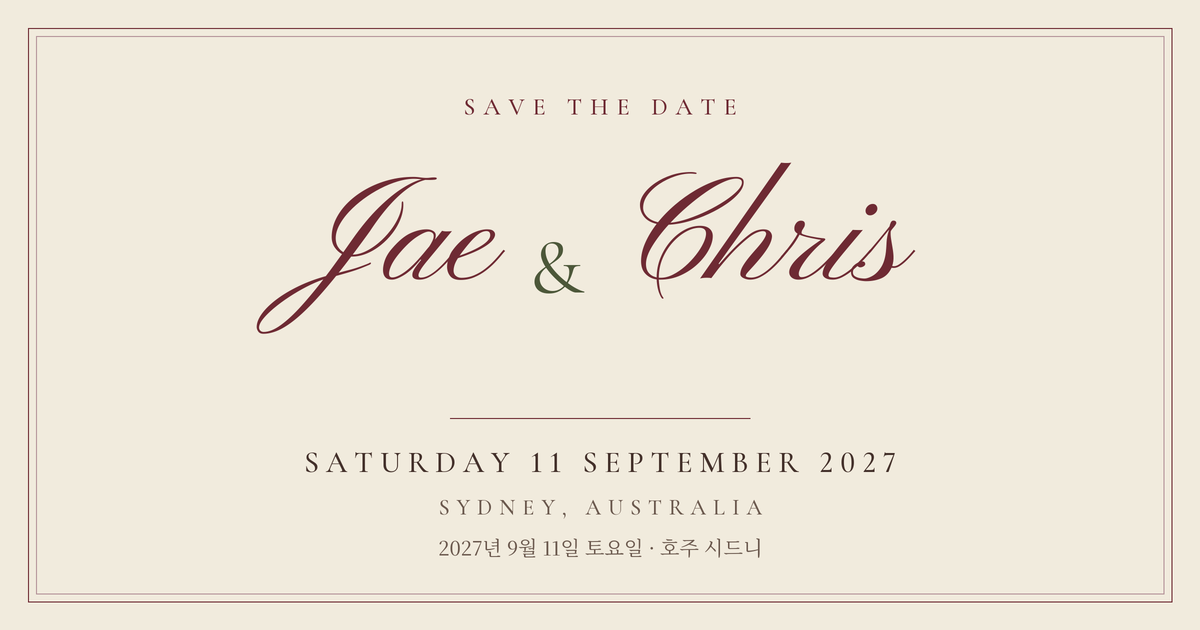
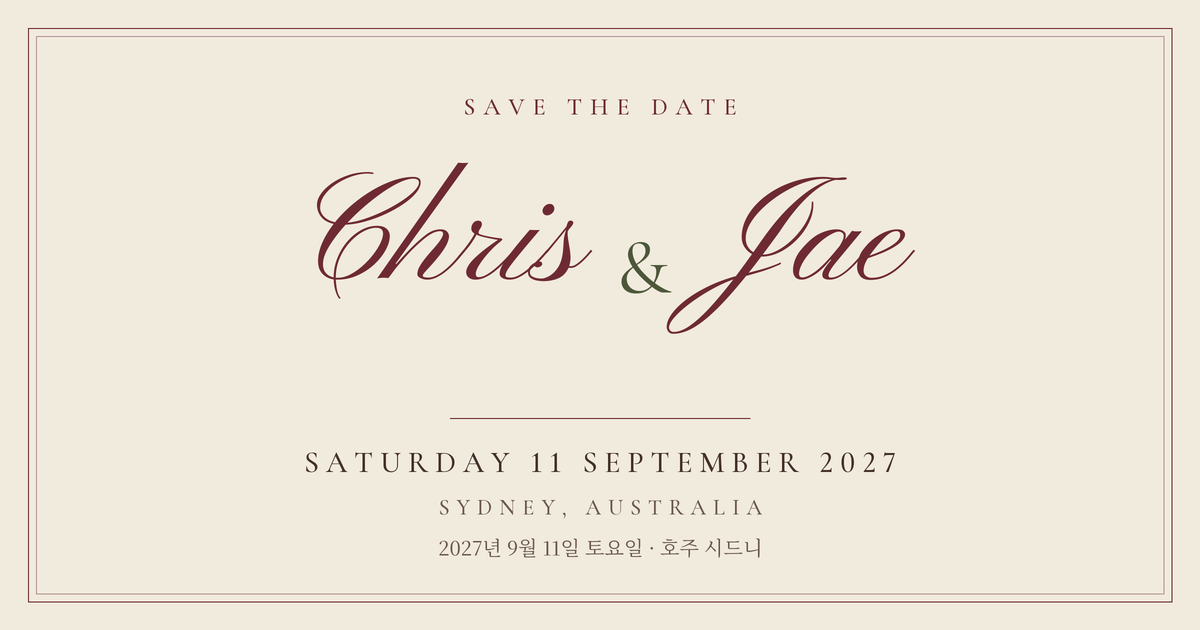
Put Chris first: Chris & Jae across page, card and calendar
- Title, heading, og title/alt, Google Calendar text
- Calendar file summary
- Link preview card re-rendered
- PRODUCT.md wording

Changed region(s): [[0.2158, 0.2413, 0.7708, 0.5429]]

diff --git a/index.html b/index.html
@@ -5,18 +5,18 @@
 <meta name="viewport" content="width=device-width,initial-scale=1,viewport-fit=cover">
 <meta name="robots" content="noindex,nofollow">
 <meta name="description" content="Save the date. Saturday 11 September 2027, Sydney.">
-<meta property="og:title" content="Jae &amp; Chris | Save the Date">
+<meta property="og:title" content="Chris &amp; Jae | Save the Date">
 <meta property="og:description" content="Saturday 11 September 2027, Sydney. Formal invitation to follow.">
 <meta property="og:type" content="website">
 <meta property="og:url" content="https://chrispychips12.github.io/jaeandchris/">
 <meta property="og:image" content="https://chrispychips12.github.io/jaeandchris/og.png">
 <meta property="og:image:width" content="1200">
 <meta property="og:image:height" content="630">
-<meta property="og:image:alt" content="Jae and Chris, save the date, 11 September 2027, Sydney">
+<meta property="og:image:alt" content="Chris and Jae, save the date, 11 September 2027, Sydney">
 <meta name="twitter:card" content="summary_large_image">
 <meta name="theme-color" content="#F1EBDD">
 <style>:root{padding-top:env(safe-area-inset-top,0px);padding-bottom:env(safe-area-inset-bottom,0px)}body{margin:0}img{max-width:100%}[hidden]{display:none!important}</style>
-<title>Jae and Chris Save the Date</title>
+<title>Chris and Jae Save the Date</title>
 <link rel="stylesheet" href="https://fonts.googleapis.com/css2?family=Pinyon+Script&family=Cormorant+Garamond:ital,wght@0,300;0,400;0,500;1,400&family=Noto+Serif+KR:wght@400&display=swap">
 <style>
 /* Layout: a four-beat scroll set like printed stationery. Names are written in on load inside a ruled frame, the date is readable on arrival and settles into place as you scroll, a day count ticks up on an olive band, then one trilingual button and a script sign-off. Palette from Jae's board: ivory, walnut, sage, olive, burgundy. Single committed look. */
@@ -158,7 +158,7 @@ p,h1,h2{margin:0;font-weight:400}
       <p class="label">Save the date</p>
       <p class="tr"><span lang="ko">이날을 비워 주시기 바랍니다</span><span lang="tl">Ireserba ang petsa</span></p>
     </div>
-    <h1 class="names" aria-label="Jae and Chris"><span>Jae</span> <span class="amp">&amp;</span> <span>Chris</span></h1>
+    <h1 class="names" aria-label="Chris and Jae"><span>Chris</span> <span class="amp">&amp;</span> <span>Jae</span></h1>
     <div class="pair mid">
       <p class="tease">are getting married</p>
       <p class="tr"><span lang="ko">결혼합니다</span><span lang="tl">ay ikakasal</span></p>
@@ -208,7 +208,7 @@ p,h1,h2{margin:0;font-weight:400}
     <div class="pair cals">
       <p class="label">Add to your calendar</p>
       <p class="tr"><span lang="ko">캘린더에 추가하기</span><span lang="tl">Idagdag sa iyong kalendaryo</span></p>
-      <p class="cal-links"><a class="cal" id="cal-ics" href="jaeandchris.ics" download>iPhone &amp; Outlook</a><a class="cal" id="cal" href="https://calendar.google.com/calendar/render?action=TEMPLATE&amp;text=Jae+%26+Chris+Wedding&amp;dates=20270911/20270912&amp;location=Sydney,+Australia" target="_blank" rel="noopener">Google</a></p>
+      <p class="cal-links"><a class="cal" id="cal-ics" href="jaeandchris.ics" download>iPhone &amp; Outlook</a><a class="cal" id="cal" href="https://calendar.google.com/calendar/render?action=TEMPLATE&amp;text=Chris+%26+Jae+Wedding&amp;dates=20270911/20270912&amp;location=Sydney,+Australia" target="_blank" rel="noopener">Google</a></p>
     </div>
     <div class="pair close">
       <p class="signoff">Invitation to follow</p>

diff --git a/PRODUCT.md b/PRODUCT.md
@@ -5,7 +5,7 @@
 brand
 
 ## Users
-Wedding guests of Jae and Chris: a mixed group of Korean, Filipino and Australian family and friends across all ages, including older relatives. Most open the link on a phone from a group chat or message. They read English, Korean or Tagalog, often only one comfortably. The job: learn the date and city, feel the occasion, and leave their contact details so the formal invitation can reach them.
+Wedding guests of Chris and Jae: a mixed group of Korean, Filipino and Australian family and friends across all ages, including older relatives. Most open the link on a phone from a group chat or message. They read English, Korean or Tagalog, often only one comfortably. The job: learn the date and city, feel the occasion, and leave their contact details so the formal invitation can reach them.
 
 ## Product Purpose
 A one-page save the date for a wedding on Saturday 11 September 2027 in Sydney. It announces the date, counts down to it, and sends guests to a short form for their contact details. Success means every guest, whatever their language or age, gets the date, taps the button, and submits the form. A formal invitation with full details follows later.
@@ -23,7 +23,7 @@ Warm, playful, editorial. It should feel like the two of them made it: personal 
 1. The date is the message. Every beat leads to the date, the city and the button; nothing competes with them.
 2. Three languages, one voice. Korean and Tagalog are first-class lines, never footnotes.
 3. Stationery, then motion. It must read beautifully as a still page; motion is a reward, never a gate.
-4. Personal over polished. Prefer a detail only Jae and Chris would choose over a generic wedding flourish.
+4. Personal over polished. Prefer a detail only Chris and Jae would choose over a generic wedding flourish.
 
 ## Accessibility & Inclusion
 WCAG 2.1 AA minimum, including the Korean and Tagalog lines. Respect reduced motion fully. Older guests on phones are a core audience, so tap targets and text must hold up at phone width and with enlarged system text.
